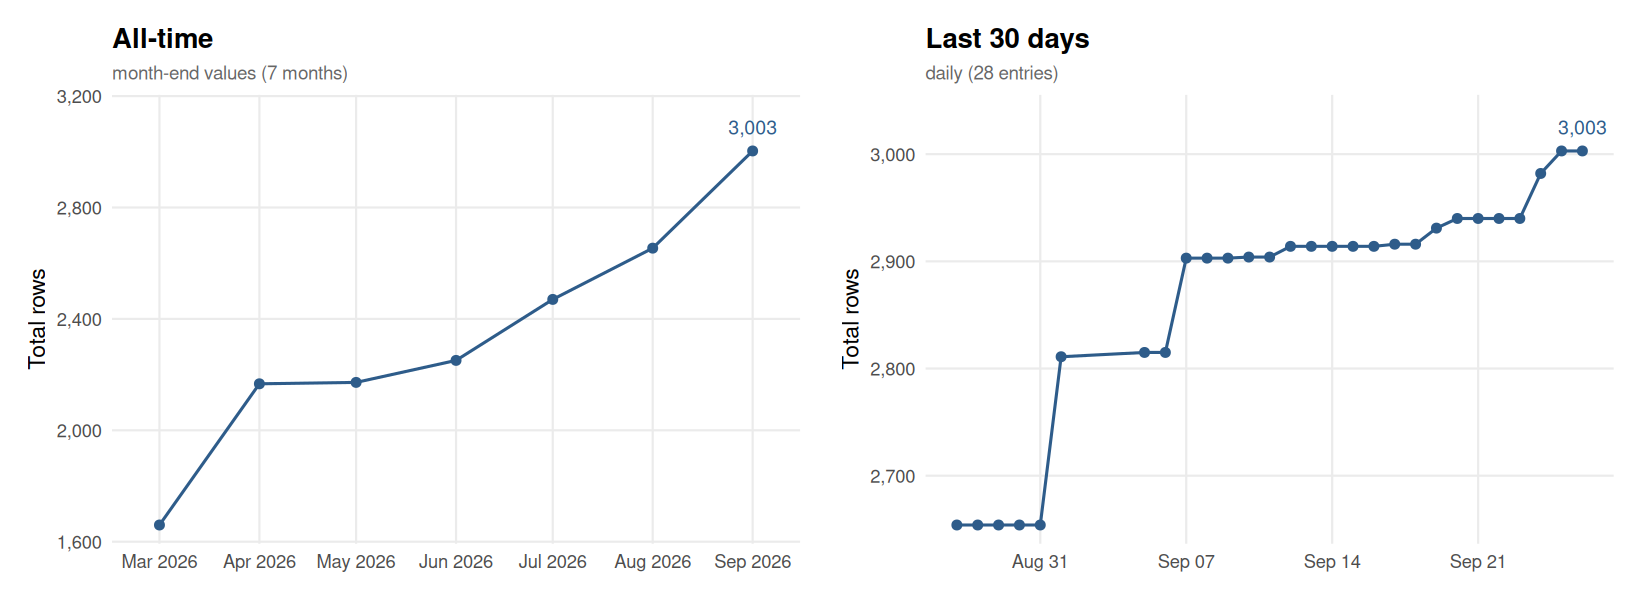
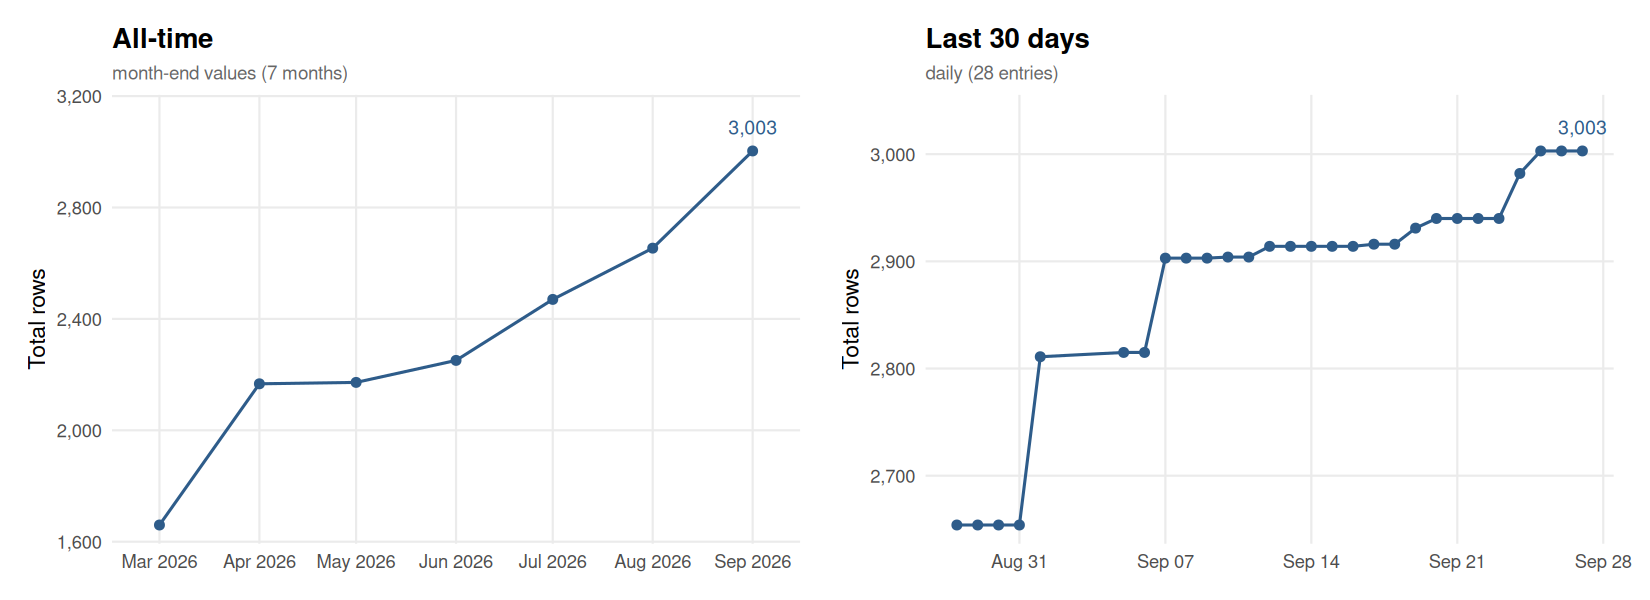
Update flora.csv [automated]

diff --git a/README.md b/README.md
@@ -438,14 +438,15 @@ For API issues:
 This chart is automatically updated after each pipeline run, showing the size of `output/flora.csv` over time.
 
 <!-- FLORA_UPDATE_LOG_START -->
-> **Latest (2026-09-26):** Total = 3,003 | Replications = 2,639 | Reproductions = 364
+> **Latest (2026-09-27):** Total = 3,003 | Replications = 2,639 | Reproductions = 364
 
 ![FLoRA dataset size over time](output/flora_history.png)
 
-<details><summary>Full history (184 entries)</summary>
+<details><summary>Full history (185 entries)</summary>
 
 | Date | Total | Replications | Reproductions |
 |------|------:|-------------:|--------------:|
+| 2026-09-27 | 3003 | 2639 | 364 |
 | 2026-09-26 | 3003 | 2639 | 364 |
 | 2026-09-25 | 3003 | 2639 | 364 |
 | 2026-09-24 | 2982 | 2622 | 360 |
